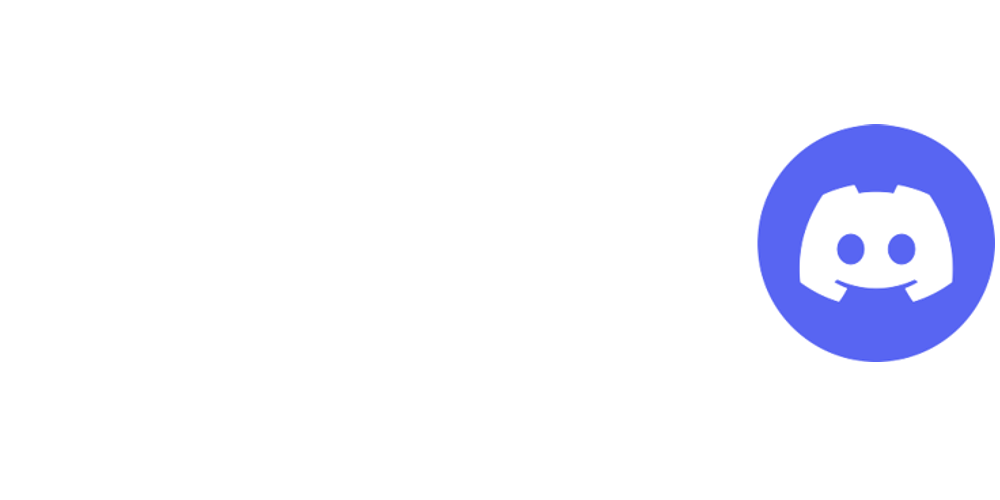
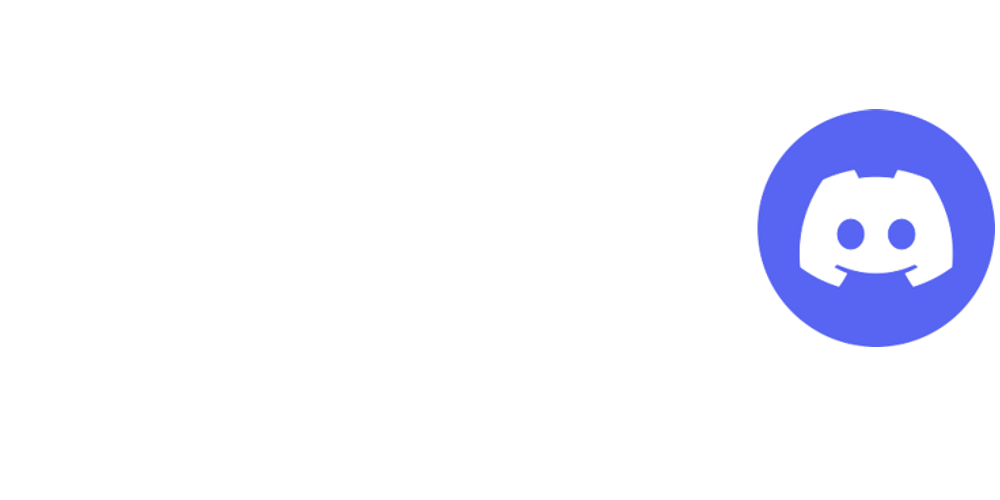
Add files via upload

Changed region(s): [[0.744, 0.21, 0.992, 0.75], [0.992, 0.42, 1.0, 0.54], [0.775, 0.45, 0.806, 0.48]]

diff --git a/styles.css b/styles.css
@@ -46,7 +46,7 @@ nav a:hover {
 }
 
 .hero-logo {
-    height: 100px; /* Adjust height as needed */
+    height: 200px; /* Adjust height as needed */
     margin-bottom: 20px;
 }
 
